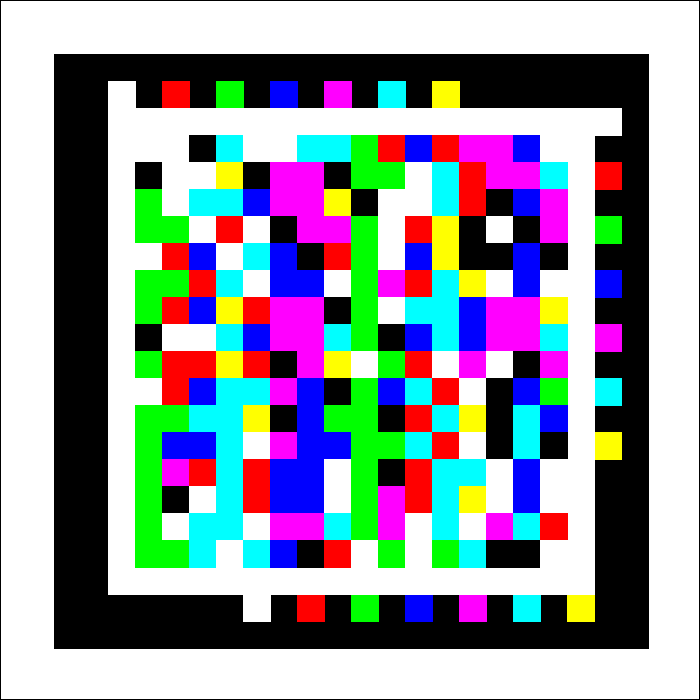
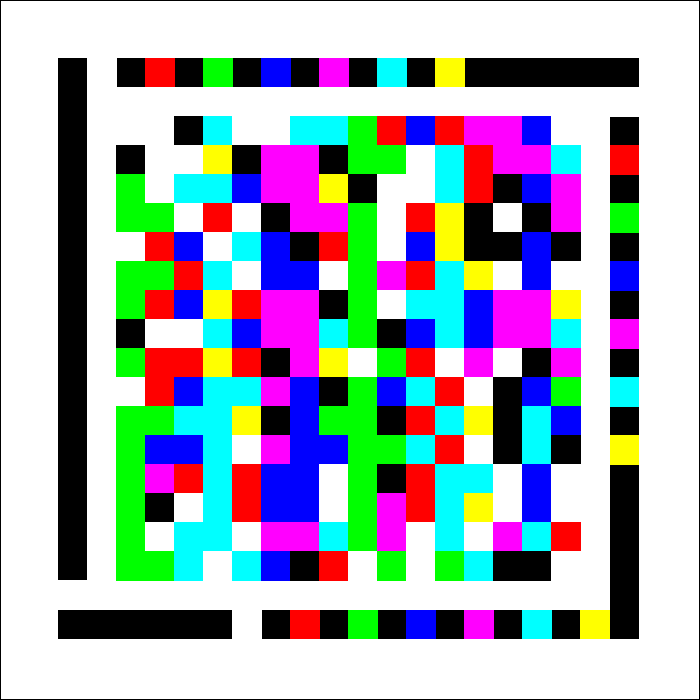
agregar cuadrado blanco en patron de color

diff --git a/Imagen2.py b/Imagen2.py
@@ -1,0 +1,94 @@
+import cv2
+import numpy as np
+
+class Imagen:
+    def __init__(self,arregloColores,tamanoMatriz,numColores,numImagen):
+        self.arregloColores = arregloColores
+        self.tamanoMatriz = tamanoMatriz
+        self.numColores = numColores
+        self.numImagen = numImagen
+    
+    def generarImagen(self):  
+        img = cv2.imread('base.jpg',cv2.IMREAD_COLOR)
+        tamanoCelda = int(700/(self.tamanoMatriz + 8))
+        #tamanoCelda = int(700/(self.tamanoMatriz + 10))+1
+
+        print('Arreglo Colores: ',self.arregloColores)
+
+        #AGREGAR BORDE DE DETECCION
+        cv2.rectangle(img,(2*tamanoCelda,2*tamanoCelda),((self.tamanoMatriz+6)*tamanoCelda,(self.tamanoMatriz+6)*tamanoCelda),(0,0,0),-1)
+        #cv2.rectangle(img,(2*tamanoCelda,2*tamanoCelda),((self.tamanoMatriz+8)*tamanoCelda,(self.tamanoMatriz+8)*tamanoCelda),(0,0,0),-1)
+        
+        #AGREGAR BORDE DE IMAGEN
+        cv2.rectangle(img,(0,0),(699,699),(0,0,0),1)
+        
+        cv2.rectangle(img,(4*tamanoCelda,4*tamanoCelda),((self.tamanoMatriz+5)*tamanoCelda,(self.tamanoMatriz+5)*tamanoCelda),(255,255,255),-1)
+        
+        
+        #AGREGAR COLORES DE REFERENCIA
+        if self.numColores == 2:
+            colReferencia = np.array([0,0,0])
+        elif self.numColores == 4:
+            colReferencia = np.array([2,3,4])
+        elif self.numColores == 8:
+            colReferencia = np.array([0,2,3,4,5,6,7])
+
+        for x in range(colReferencia.size):
+            ##SUPERIOR
+            pt1 = (tamanoCelda*(((x+1)*2)+1) , (2)*tamanoCelda)
+            pt2 = (tamanoCelda*(((x+1)*2)+2) , (3)*tamanoCelda)
+            col = self.Color(colReferencia[x])
+            cv2.rectangle(img,pt1,pt2,col,-1)
+
+            ##DERECHA
+            pt1 = ((5+self.tamanoMatriz)*tamanoCelda,tamanoCelda*(((x+1)*2)+1))
+            pt2 = ((6+self.tamanoMatriz)*tamanoCelda,tamanoCelda*(((x+1)*2)+2))
+            col = self.Color(colReferencia[x])
+            cv2.rectangle(img,pt1,pt2,col,-1)
+
+            ##INFERIOR
+            pt1 = (tamanoCelda*((((x+1)*2)) + (self.tamanoMatriz+5-(2*colReferencia.size))),(5+self.tamanoMatriz)*tamanoCelda)
+            pt2 = (tamanoCelda*((((x+1)*2)) + (self.tamanoMatriz+4-(2*colReferencia.size))),(6+self.tamanoMatriz)*tamanoCelda)
+            col = self.Color(colReferencia[x])
+            cv2.rectangle(img,pt1,pt2,col,-1)
+        
+        cv2.rectangle(img,(2*tamanoCelda,(4+self.tamanoMatriz)*tamanoCelda),(3*tamanoCelda,(5+self.tamanoMatriz)*tamanoCelda),(255,255,255),-1)        
+        cv2.rectangle(img,(3*tamanoCelda,3*tamanoCelda),((self.tamanoMatriz+5)*tamanoCelda,(self.tamanoMatriz+5)*tamanoCelda),(255,255,255),-1)
+        #cv2.rectangle(img,(4*tamanoCelda,4*tamanoCelda),((self.tamanoMatriz+6)*tamanoCelda,(self.tamanoMatriz+6)*tamanoCelda),(255,255,255),-1) 
+       
+        for y in range(self.tamanoMatriz):
+            for x in range(self.tamanoMatriz):
+                pt1=((x+4)*tamanoCelda,(y+4)*tamanoCelda)
+                pt2=((x+5)*tamanoCelda,(y+5)*tamanoCelda)
+                valorCelda = self.arregloColores[(y*self.tamanoMatriz)+x]
+                col = self.Color(valorCelda)
+                cv2.rectangle(img,pt1,pt2,col,-1)
+
+        #cv2.imshow('image',img)
+        nombreImagen = 'Imagen' + str(self.numImagen)+'.png'
+        cv2.imwrite(nombreImagen,img)
+        #cv2.waitKey(0)
+        cv2.destroyAllWindows()
+
+    def Color(self,valorCelda):
+        if valorCelda == 0:
+            col = (255,255,255)
+        elif valorCelda == 1:
+            col = (0,0,0)
+        elif valorCelda == 2:
+            col = (0,0,255)
+        elif valorCelda == 3:
+            col = (0,255,0)
+        elif valorCelda == 4:
+            col = (255,0,0)
+        elif valorCelda == 5:
+            col = (255,0,255)
+        elif valorCelda == 6:
+            col = (255,255,0)
+        elif valorCelda == 7:
+            col = (0,255,255)
+            
+        return col
+
+
+

diff --git a/Trama.py b/Trama.py
@@ -1,7 +1,7 @@
 import math
 from EstructuraTrama import EstructuraTrama
 from PatronDeColor import PatronDeColor
-from Imagen import Imagen
+from Imagen2 import Imagen
 
 class Trama:
     def __init__(self,contenido,NumTramas,tamanoUtil,BitsPorTrama,numColores,tamanoMatriz):
